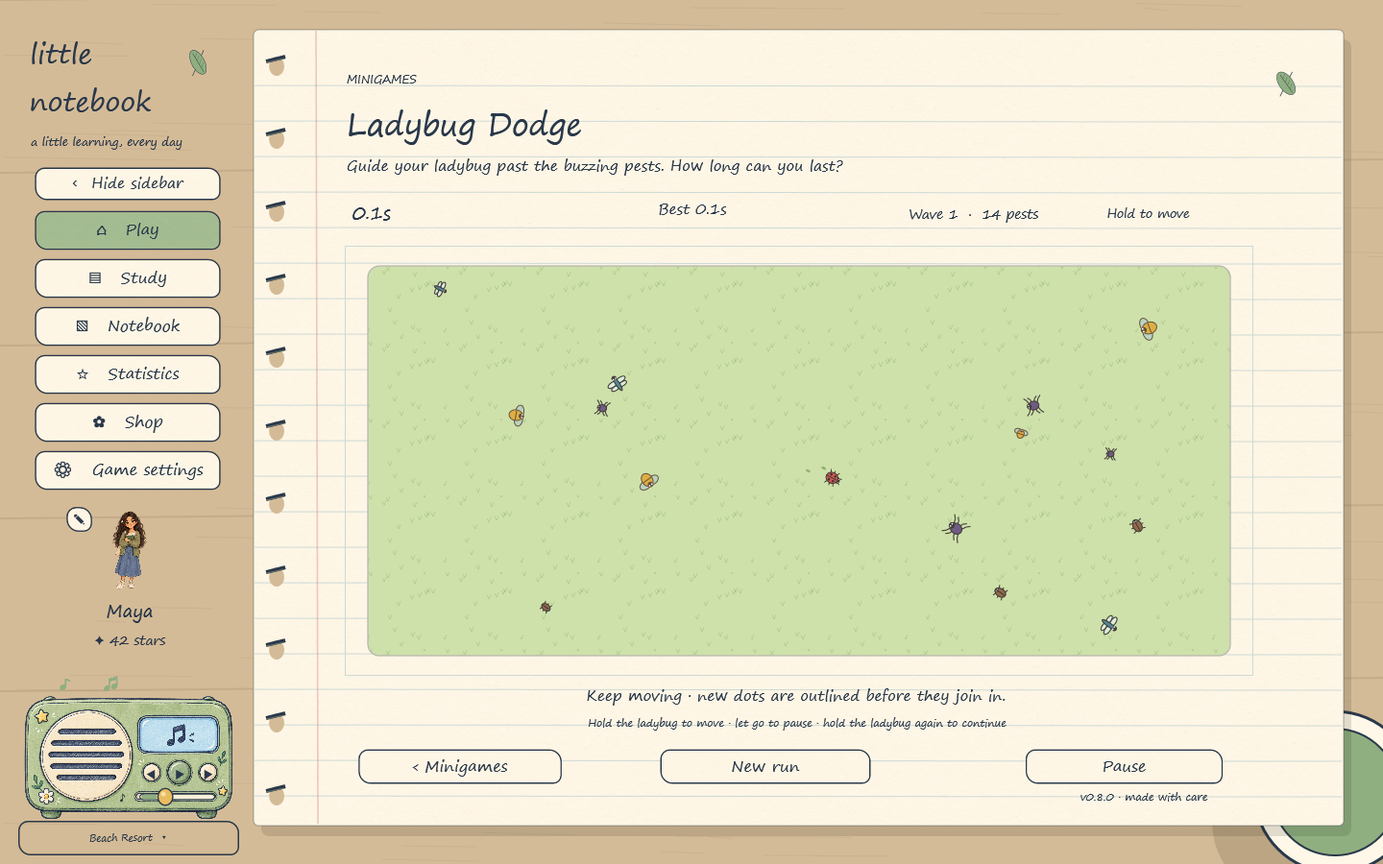
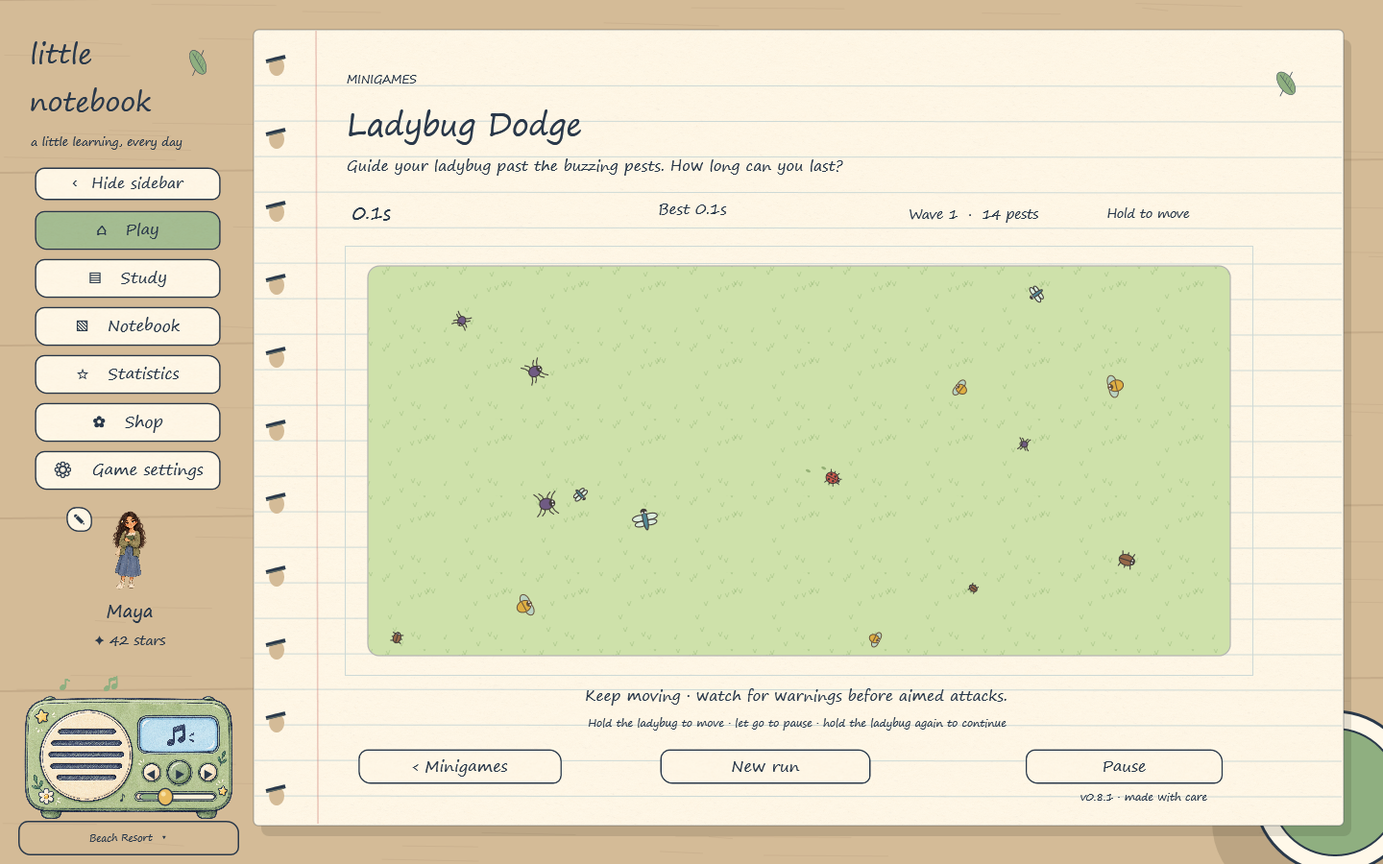
Fix Arabic paper controls and notebook footer spacing in v0.8.1

diff --git a/src/MiniGames.cs b/src/MiniGames.cs
@@ -15,7 +15,7 @@ namespace LittleNotebook {public partial class MainWindow {
   ScrollViewer miniSelectionScroll;double miniSelectionOffset;
   readonly List<Key> miniHeldKeys=new List<Key>();
   string MiniName(string key){if(ExtraPuzzle.Keys.Contains(key))return ExtraTitle(key);switch(key){case "mousedash":return T("Ladybug Dodge","مراوغة الدعسوقة");case "arrows":return T("Arrow Escape","هروب الأسهم");case "signal":return T("Signal Path","مسار الإشارة");case "pulse":return T("Pulse Lock","قفل النبض");case "stack":return T("Paper Stack","برج الورق");case "tiles":return T("Picture Patches","قصاصات الصور");case "echo":return T("Echo Keys","مفاتيح الصدى");default:return T("Ladybug Trail","درب الدعسوقة");}}
-  string MiniDescription(string key){if(ExtraPuzzle.Keys.Contains(key))return ExtraInstructions(key);switch(key){case "mousedash":return T("Guide your ladybug past the buzzing pests. How long can you last?","أمسك كرتك وراوغ النقاط المتحركة. كم يمكنك الصمود؟");case "arrows":return T("Clear winding arrows in the right order. Three hearts, piano notes and bigger boards.","أخرج الأسهم بالترتيب الصحيح. ثلاث محاولات ونغمات بيانو ولوحات أكبر.");case "signal":return T("Rotate the little pipes to carry a signal from IN to OUT.","دوّر الأنابيب لوصل الإشارة من المدخل إلى المخرج.");case "pulse":return T("Press E or click to begin, then keep tapping to open all three latches.","اضغط E أو انقر للبدء، ثم واصل الضغط لفتح الأقفال الثلاثة.");case "stack":return T("Time each landing. Trimmed edges fall away; how high can you stack?","اختر لحظة وضع كل قطعة. تسقط الحواف الزائدة؛ كم سيعلو برجك؟");case "tiles":return T("Piece together an animal photo. Hover over the eye for a peek.","رتّب البلاطات واترك الفراغ في أسفل اليمين.");case "echo":return T("Watch and listen, then play the little melody back.","شاهد واستمع، ثم أعد عزف النغمات بالترتيب.");default:return T("Guide the little ladybug through the paper maze to its leaf.","أرشد الدعسوقة الصغيرة عبر متاهة الورق إلى ورقتها.");}}
+  string MiniDescription(string key){if(ExtraPuzzle.Keys.Contains(key))return ExtraInstructions(key);switch(key){case "mousedash":return T("Guide your ladybug past the buzzing pests. How long can you last?","أرشد دعسوقتك بين الحشرات. كم يمكنك الصمود؟");case "arrows":return T("Clear winding arrows in the right order. Three hearts, piano notes and bigger boards.","أخرج الأسهم بالترتيب الصحيح. ثلاث محاولات ونغمات بيانو ولوحات أكبر.");case "signal":return T("Rotate the little pipes to carry a signal from IN to OUT.","دوّر الأنابيب لوصل الإشارة من المدخل إلى المخرج.");case "pulse":return T("Press E or click to begin, then keep tapping to open all three latches.","اضغط E أو انقر للبدء، ثم واصل الضغط لفتح الأقفال الثلاثة.");case "stack":return T("Time each landing. Trimmed edges fall away; how high can you stack?","اختر لحظة وضع كل قطعة. تسقط الحواف الزائدة؛ كم سيعلو برجك؟");case "tiles":return T("Piece together an animal photo. Hover over the eye for a peek.","رتّب البلاطات واترك الفراغ في أسفل اليمين.");case "echo":return T("Watch and listen, then play the little melody back.","شاهد واستمع، ثم أعد عزف النغمات بالترتيب.");default:return T("Guide the little ladybug through the paper maze to its leaf.","أرشد الدعسوقة الصغيرة عبر متاهة الورق إلى ورقتها.");}}
   void PlayTabs(bool games){
    var learning=Button(T("Learning","التعلّم"),()=>SwitchPlaySection(false),160,32,!games);learning.FontSize=14*Profile.Settings.TextScale;Put(body,learning,597,-7);
    var minigames=Button(T("Minigames","ألعاب مصغّرة"),()=>SwitchPlaySection(true),178,32,games);minigames.FontSize=14*Profile.Settings.TextScale;Put(body,minigames,765,-7);
@@ -91,7 +91,7 @@ namespace LittleNotebook {public partial class MainWindow {
    if(mini==null||miniStatus==null)return;if(miniClock!=null)miniClock.Text=FormatPuzzleTime(mini.Elapsed);if(mini.Extra!=null){RefreshExtraHud();return;}miniLives.Text=mini.HasLives?new string('♥',Math.Max(0,mini.Lives))+new string('♡',3-Math.Max(0,mini.Lives)):"";
    if(mini.Dash!=null){
     miniHeading.Text=DashTime(mini.Dash.Seconds);miniLives.FontSize=17*Profile.Settings.TextScale;miniLives.Foreground=B(p.Ink);miniLives.Text=T("Best ","الأفضل ")+DashTime(Math.Max(Profile.MiniGames["mousedash"].BestSeconds,mini.Dash.Seconds));miniCounter.Text=T("Wave ","الموجة ")+mini.Dash.Wave+"  ·  "+mini.Dash.Obstacles.Count+T(" pests"," نقطة");
-    miniStatus.Text=mini.Phase=="waiting"?T("Hold anywhere on the paper to begin. Avoid every flying pest.","أمسك أي موضع على الورق للبدء. تجنّب كل النقاط المتحركة."):mini.Phase=="holding"?T("Paused · hold your ball to continue.","متوقفة · أمسك كرتك للمتابعة."):mini.Phase=="failed"?T("You lasted ","صمدت ")+DashTime(mini.Dash.Seconds):T("Keep moving · new dots are outlined before they join in.","واصل الحركة · تظهر النقاط الجديدة بإطار قبل دخولها.");return;
+    miniStatus.Text=mini.Phase=="waiting"?T("Hold anywhere on the grass to begin. Avoid the pests.","أمسك أي موضع على الورق للبدء. تجنّب كل النقاط المتحركة."):mini.Phase=="holding"?T("Paused · hold your ball to continue.","متوقفة · أمسك كرتك للمتابعة."):mini.Phase=="failed"?T("You lasted ","صمدت ")+DashTime(mini.Dash.Seconds):T("Keep moving · watch for warnings before aimed attacks.","واصل الحركة · تظهر النقاط الجديدة بإطار قبل دخولها.");return;
    }
    if(mini.Stack!=null){RefreshStackHud();return;}
    miniCounter.Text=mini.Kind=="arrows"?mini.Arrows.Remaining+T(" arrows left"," أسهم متبقية"):mini.Kind=="pulse"?T("Latch ","القفل ")+Math.Min(3,mini.Latch+1)+" / 3":mini.Kind=="echo"?(mini.Phase=="showing"?Math.Max(0,Math.Min(mini.Pattern.Length,mini.ShowIndex+1)):Math.Min(mini.Pattern.Length,mini.PatternIndex))+" / "+mini.Pattern.Length:mini.Moves+T(" moves"," حركات");

diff --git a/src/RefinementChecks.cs b/src/RefinementChecks.cs
@@ -25,7 +25,7 @@ namespace LittleNotebook {public partial class MainWindow {
   phase="notebook shortcuts";var shortcutKeys=new[]{System.Windows.Input.Key.A,System.Windows.Input.Key.S,System.Windows.Input.Key.D,System.Windows.Input.Key.F,System.Windows.Input.Key.G,System.Windows.Input.Key.Z,System.Windows.Input.Key.X,System.Windows.Input.Key.C};var expectedTools=new[]{"select","select:ellipse","pencil","pen","brush","highlighter","fill","eraser"};for(int i=0;i<shortcutKeys.Length;i++){check(UseNotebookShortcut(shortcutKeys[i],System.Windows.Input.ModifierKeys.None,false)&&notebookTool==expectedTools[i],"Wrong notebook shortcut "+shortcutKeys[i]);}check(!NotebookShortcutsAvailable(new TextBox()),"Shortcuts intercept typing");ConfigureNotebookTool("pen");BeginNotebookChange();int shortcutBefore=notebookInk.Strokes.Count;AddNotebookShape("line",new Point(20,10),new Point(130,70));CommitNotebookChange();UseNotebookShortcut(System.Windows.Input.Key.Z,System.Windows.Input.ModifierKeys.Control,false);check(notebookInk.Strokes.Count==shortcutBefore&&notebookTool=="pen","Ctrl+Z selected highlighter or did not undo");UseNotebookShortcut(System.Windows.Input.Key.Z,System.Windows.Input.ModifierKeys.Control|System.Windows.Input.ModifierKeys.Shift,false);check(notebookInk.Strokes.Count>shortcutBefore,"Ctrl+Shift+Z did not redo");
   phase="paper editor";string notebook=NotebookSnapshot();var draft=new PaperDesign{PaperColor="#E6EED2"};PaperDesignView(draft);var paper=Descendants<Sketch>(overlay).First(x=>x.Kind=="paper");check(paper.P.Paper==Color.FromRgb(230,238,210)&&paper.PaperOverride==draft,"Draft paper not shown live");var spacing=Descendants<Slider>(overlay).Single();spacing.Value=57;check(draft.Spacing==57&&paper.PaperOverride.Spacing==57,"Spacing preview not live");OpenPaperDecorationEditor(draft);check(page=="notebook"&&paperEditorCancel!=null,"Editor navigated out of page");var ink=Descendants<SmoothInkCanvas>(overlay).Single();ink.Strokes.Add(new Stroke(new System.Windows.Input.StylusPointCollection(new[]{new System.Windows.Input.StylusPoint(40,40),new System.Windows.Input.StylusPoint(140,90)})));ClickTestButton("Fill");ink.PointerStarting(new Point(400,300));check(notebook==NotebookSnapshot(),"Decoration editor changed notebook");ClickTestButton("Use decorations");check(!string.IsNullOrEmpty(draft.Decorations.Ink)&&draft.Decorations.Images.Count==1&&paperEditorCancel==null,"Editor did not return draft");check(Profile.Settings.Paper!=draft,"Editor saved before paper confirmation");OpenPaperDecorationEditor(draft);ink=Descendants<SmoothInkCanvas>(overlay).Single();ink.Strokes.Clear();CloseModal();check(!string.IsNullOrEmpty(draft.Decorations.Ink),"Editor cancel overwrote draft");CloseModal();
   phase="all themes and languages";foreach(string theme in new[]{"matcha","sky","rose","lavender","night"})foreach(string lang in new[]{"en","ar"}){
-   Profile.Settings.Theme=theme;Profile.Settings.Language=lang;Profile.Settings.Paper=PaperDesign.ForTheme(theme);page="home";selectedTopic="mixed";Build();Capture("refine-learning-"+theme+"-"+lang);check(Descendants<TextBlock>(body).Any(x=>x.Text==T("Difficulty","المستوى")),"Missing difficulty heading");SettingsView();Capture("refine-settings-"+theme+"-"+lang);CloseModal();PaperDesignView();Capture("refine-paper-"+theme+"-"+lang);CloseModal();page="notebook";Build();FitNotebook();RefreshNotebookGuide();Capture("refine-notebook-"+theme+"-"+lang);page="minigames";Build();Capture("refine-menu-"+theme+"-"+lang);StartMiniGame("mousedash");mini.HoldDash(450,204);mini.MoveDash(500,215);mini.Dash.Tick(.2);RefreshMiniHud();miniSurface.InvalidateVisual();Capture("refine-dodge-"+theme+"-"+lang);BackToMiniGames();
+   Profile.Settings.Theme=theme;Profile.Settings.Language=lang;Profile.Settings.Paper=PaperDesign.ForTheme(theme);page="home";selectedTopic="mixed";Build();Capture("refine-learning-"+theme+"-"+lang);check(Descendants<TextBlock>(body).Any(x=>x.Text==T("Difficulty","المستوى")),"Missing difficulty heading");SettingsView();Capture("refine-settings-"+theme+"-"+lang);CloseModal();PaperDesignView();check(Descendants<TextBlock>(overlay).First().Width==540,"Paper title overlaps reset");Capture("refine-paper-"+theme+"-"+lang);CloseModal();page="notebook";Build();FitNotebook();RefreshNotebookGuide();check(notebookStatus.FlowDirection==FlowDirection.LeftToRight&&notebookStatus.Width==340,"Notebook status overlaps hint");Capture("refine-notebook-"+theme+"-"+lang);page="minigames";Build();Capture("refine-menu-"+theme+"-"+lang);StartMiniGame("mousedash");mini.HoldDash(450,204);mini.MoveDash(500,215);mini.Dash.Tick(.2);RefreshMiniHud();miniSurface.InvalidateVisual();Capture("refine-dodge-"+theme+"-"+lang);BackToMiniGames();
   }
   Profile.Settings.Language="en";Profile.Settings.Theme="matcha";Profile.Settings.Paper=PaperDesign.ForTheme("matcha");page="home";Build();var decorated=new PaperDesign();PaperDesignView(decorated);OpenPaperDecorationEditor(decorated);Capture("refine-decoration-editor");CloseModal();CloseModal();foreach(int level in new[]{4,10,35}){Profile.MiniGames["pour"].Level=level;StartMiniGame("pour");Capture("refine-pour-level-"+level);mini.Phase="complete";mini.Wait=100;miniSurface.InvalidateVisual();Capture("refine-pour-cleared-"+level);BackToMiniGames();}
   CaptureDocumentation();check(Diagnostics.ErrorCount==0,"Native UI errors logged");File.WriteAllText(report,"PASS: "+checks+" targeted checks. 500 stationary dodge positions all defeated within "+longest.ToString("0.0")+"s; footprints, variety, proven crate deadlocks and automatic restart, pour/deselection/ramp, learning selection, tracing preservation/comparison, zoom/fit, pen modes, live paper preview, isolated layered editor save/cancel, and native renders in all five themes and both languages. No desktop interaction.");

diff --git a/tools/test_live_update.py b/tools/test_live_update.py
@@ -1,4 +1,4 @@
-"""Exercise the real published GitHub client/updater without desktop automation."""
+"""Exercise the real published GitHub client/updater without desktop automation."""
 from pathlib import Path
 import hashlib, json, shutil, subprocess, time, urllib.request, zipfile
 root=Path(__file__).resolve().parent.parent
@@ -21,6 +21,7 @@ try:
  run([root/f"releases/LittleNotebook-Setup-{release['version']}.exe",'/VERYSILENT','/SUPPRESSMSGBOXES','/NORESTART','/SP-','/TESTINSTALL=1',f'/DIR={app}',f'/LOG={area}/install.log'])
  data=app/'user-data-test'
  profile=json.loads((root/'test-output/revision-profile.json').read_text(encoding='utf-8-sig'))
+ for notebook in profile['Notebook']:notebook.setdefault('TracePhoto','')
  profile.update(Name='Update preservation fixture',Coins=777,StackBest=23)
  profile['MiniGames']={key:dict(Level=17 if key=='arrows' else 4,Seed=81623+index,BestCompleted=16 if key=='arrows' else 3,Completed=21,Failures=2,BestSeconds=62.8 if key=='mousedash' else 0,LastSeconds=48.2 if key=='mousedash' else 0,LastMoves=21,BestMoves=19,Results=[dict(Level=3,Moves=21,Seconds=52.1,Date='2026-10-23T10:00:00Z')]) for index,key in enumerate(['arrows','tiles','maze','mousedash','lights','queens','crates','pegs','untangle','pour','code','domino','glide','flood','signal','pulse','lanterns','echo'])}
  profile['Settings'].update(Language='en',Music=False,Sound=False,AutoReadQuestions=False,Volume=0,CustomMusic=['data/music/preserve.wav'],MusicTitles={'data/music/preserve.wav':'My preserved music name'})
@@ -30,9 +31,9 @@ try:
  # Exercise the actual published previous client and piano files, rather than
  # merely changing a version constant in the new executable.
  def download(url):
-  assert url.startswith('https://github.com/farhanr3001/little-notebook-game/releases/download/v0.7.0/')
+  assert url.startswith('https://github.com/farhanr3001/little-notebook-game/releases/download/v0.8.0/')
   with urllib.request.urlopen(urllib.request.Request(url,headers={'User-Agent':'LittleNotebook-update-verification'}),timeout=90) as response:return response.read()
- old=json.loads(download('https://github.com/farhanr3001/little-notebook-game/releases/download/v0.7.0/update-manifest.json'))
+ old=json.loads(download('https://github.com/farhanr3001/little-notebook-game/releases/download/v0.8.0/update-manifest.json'))
  current=json.loads((app/'payload-manifest.json').read_text(encoding='utf-8'));old_paths={f['path'] for f in old['files']}
  for record in current['files']:
   if record['path'] not in old_paths:
@@ -69,7 +70,7 @@ try:
  result=(data/'live-client-test.txt').read_text(encoding='utf-8-sig');assert 'FAIL:' not in result and 'manual Check for updates reports up to date' in result
  run([app/'unins000.exe','/VERYSILENT','/SUPPRESSMSGBOXES','/NORESTART',f'/LOG={area}/uninstall.log'])
  wait_for(lambda:not app.exists(),15)
- report.write_text('PASS: actual published 0.7.0 client accepted the GitHub startup update offer; only the application component downloaded; production updater replacing the older executable and removing obsolete files; preserved character/stars/purchases/attempts/notebook/imported music and minigame checkpoints, Paper Stack high score and Mouse Dash times; unchanged asset timestamp; no popup on current version; manual up-to-date result; complete uninstall of the updated installation. No desktop automation.\n',encoding='utf-8')
+ report.write_text('PASS: actual published 0.8.0 client accepted the GitHub startup update offer; only the application component downloaded; production updater replacing the older executable and removing obsolete files; preserved character/stars/purchases/attempts/notebook/imported music and minigame checkpoints, Paper Stack high score and Mouse Dash times; unchanged asset timestamp; no popup on current version; manual up-to-date result; complete uninstall of the updated installation. No desktop automation.\n',encoding='utf-8')
  print(report.read_text())
 except Exception as error:
  report.write_text('FAIL: '+repr(error),encoding='utf-8');raise

diff --git a/src/MainWindow.cs b/src/MainWindow.cs
@@ -184,7 +184,7 @@ namespace LittleNotebook {
    var allTopics=Button("",()=>ToggleTopic("mixed"),367,62,SelectedTopics.Length==4);var allCanvas=new Canvas{Width=335,Height=51};for(int k=0;k<4;k++)Put(allCanvas,new Sketch(new[]{"book","math","brain","sun"}[k],SelectedTopics.Length==4?p.OnAccent():p,25,25),8+k*29,12);Label(allCanvas,T("All topics","جميع المواضيع"),136,9,21,190);allTopics.Content=allCanvas;AutomationProperties.SetName(allTopics,Topic("mixed"));Put(body,allTopics,298,125);
    var icons=new[]{"book","math","brain","sun"};for(int i=0;i<4;i++){string topic=PlayTopics[i];bool selected=SelectedTopics.Contains(topic);var button=Button("",()=>ToggleTopic(topic),367,62,selected);var c=new Canvas{Width=333,Height=51};Put(c,new Sketch(icons[i],selected?p.OnAccent():p,39,39),Ar?282:6,4);Label(c,Topic(topic),Ar?6:62,9,21,265).Foreground=B(selected?p.AccentInk:p.Ink);button.Content=c;AutomationProperties.SetName(button,Topic(topic));Put(body,button,98+(Ar?1-i%2:i%2)*394,202+(i/2)*75);}
    Label(body,T("Question types","أنواع الأسئلة"),99,352,15,760);
-   var info=Text("ⓘ",17,26,true);info.ToolTip=T("Only your selected question types are included in the game. Choose All to include every type in a topic.","تظهر أثناء اللعب أنواع الأسئلة المحددة فقط. اختر الكل لتضمين كل أنواع الموضوع.");ToolTipService.SetInitialShowDelay(info,150);Put(body,info,Ar?691:239,350);
+   var info=Text("ⓘ",17,26,true);info.ToolTip=T("Only your selected question types are included in the game. Choose All to include every type in a topic.","تظهر أثناء اللعب أنواع الأسئلة المحددة فقط. اختر الكل لتضمين كل أنواع الموضوع.");ToolTipService.SetInitialShowDelay(info,150);Put(body,info,Ar?749:218,350);
    var groups=new StackPanel{Width=750};foreach(string item in SelectedTopics){string topic=item;var topicButtons=new Dictionary<string,Button>();questionTypeButtons[topic]=topicButtons;var row=new StackPanel{Width=742,Margin=new Thickness(0,0,0,8)};row.Children.Add(Text(Topic(topic),15,730));var types=new WrapPanel{Width=736,FlowDirection=Ar?FlowDirection.RightToLeft:FlowDirection.LeftToRight};foreach(string key in QuestionCatalog.Categories(bank,topic,Profile.Settings.Difficulty)){string category=key,label=CategoryName(key);var button=Button(label,()=>ToggleTopicCategory(topic,category),Math.Max(62,Math.Min(153,label.Length*8+24)),32,TypeSelected(topic,key));button.Margin=new Thickness(0,0,5,5);button.FontSize=14*Profile.Settings.TextScale;StyleQuestionTypeButton(button,TypeSelected(topic,key));topicButtons[key]=button;types.Children.Add(button);}row.Children.Add(types);groups.Children.Add(row);}
    double height=SelectedTopics.Length==1?100:125;var scroll=new ScrollViewer{Width=773,Height=height,Content=groups,VerticalScrollBarVisibility=ScrollBarVisibility.Auto,HorizontalScrollBarVisibility=ScrollBarVisibility.Disabled};StylePaperScroll(scroll);Put(body,scroll,99,381);questionTypeScroll=scroll;
    // Restore before the rebuilt screen can render, rather than jumping after Loaded.

diff --git a/src/PaperDesign.cs b/src/PaperDesign.cs
@@ -23,7 +23,7 @@ namespace LittleNotebook {
   void PaperDesignView(PaperDesign draft){
    if(draft.Holes==null)draft.Holes=Enumerable.Repeat("holes",11).ToList();while(draft.Holes.Count<11)draft.Holes.Add("holes");
    Modal(T("Background paper","تصميم ورقة الخلفية"),c=>{
-    RefreshPaperPreview(c,draft);var reset=Button("↻",()=>PaperDesignView(PaperDesign.ForTheme(Profile.Settings.Theme)),40,39);reset.ToolTip=T("Reset to this theme’s default paper","استعادة ورقة المظهر الافتراضية");Put(c,reset,663,25);
+    RefreshPaperPreview(c,draft);c.Children.OfType<TextBlock>().First().Width=540;var reset=Button("↻",()=>PaperDesignView(PaperDesign.ForTheme(Profile.Settings.Theme)),40,39);reset.ToolTip=T("Reset to this theme’s default paper","استعادة ورقة المظهر الافتراضية");Put(c,reset,663,25);
     Label(c,T("Choose your paper, rules and each binding decoration.","اختر الورقة والخطوط والزينة عند كل ثقب."),96,102,17,600);
     string[] labels={T("Paper colour","لون الورقة"),T("Line colour","لون الخطوط"),T("Margin colour","لون الهامش")};string[] values={draft.PaperColor,draft.LineColor,draft.MarginColor};
     for(int i=0;i<3;i++){int index=i;Label(c,labels[i],99+i*201,151,16,194);var color=Button("",()=>NotebookColorWheel((Color)ColorConverter.ConvertFromString(values[index]),selected=>{if(index==0)draft.PaperColor=selected.ToString();if(index==1)draft.LineColor=selected.ToString();if(index==2)draft.MarginColor=selected.ToString();PaperDesignView(draft);}),184,43);color.Background=(Brush)new BrushConverter().ConvertFromString(values[i]);Put(c,color,98+i*201,185);}

diff --git a/src/MiniSurface.cs b/src/MiniSurface.cs
@@ -125,9 +125,9 @@ namespace LittleNotebook {
    DrawLadybug(dc,ball,MouseDashBoard.PlayerRadius,board.Facing*180/Math.PI+90,palette);
    if(Session.Phase=="holding"||Session.Phase=="waiting")dc.DrawEllipse(null,Pen(palette.Gold,1.8),ball,16,16);
    if(board.Hit)dc.DrawEllipse(null,Pen(Color.FromRgb(188,91,83),2),ball,21,21);
-   if(!board.Started){Label(dc,ar?"أمسك أي موضع للبدء":"Hold anywhere to begin",new Point(Width/2,Height/2-27),24);Label(dc,ar?"حرّك الكرة وتجنّب النقاط · اتركها للإيقاف":"Guide your ladybug past the pests · let go to pause",new Point(Width/2,Height/2+9),14);}
+   if(!board.Started){Label(dc,ar?"أمسك أي موضع للبدء":"Hold anywhere to begin",new Point(Width/2,Height/2-27),24);Label(dc,ar?"حرّك الدعسوقة وتجنّب الحشرات · اتركها للإيقاف":"Guide your ladybug past the pests · let go to pause",new Point(Width/2,Height/2+9),14);}
    else if(Session.Phase=="holding"){
-    dc.DrawRoundedRectangle(Brush(palette.Paper),Pen(palette.Line,1),new Rect(Width/2-145,13,290,36),9,9);Label(dc,ar?"أمسك الكرة للمتابعة":"Hold your ladybug to continue",new Point(Width/2,31),14);
+    dc.DrawRoundedRectangle(Brush(palette.Paper),Pen(palette.Line,1),new Rect(Width/2-145,13,290,36),9,9);Label(dc,ar?"أمسك الدعسوقة للمتابعة":"Hold your ladybug to continue",new Point(Width/2,31),14);
    }
   }
   static double Distance(Point point,Point a,Point b){Vector line=b-a;double t=line.LengthSquared==0?0:Math.Max(0,Math.Min(1,Vector.Multiply(point-a,line)/line.LengthSquared));return (point-(a+line*t)).Length;}

diff --git a/src/NotebookSurface.cs b/src/NotebookSurface.cs
@@ -67,8 +67,8 @@ namespace LittleNotebook {
 
    Put(body,new Border{Width=962,Height=369,Child=sheet,BorderBrush=B(p.Line),BorderThickness=new Thickness(1)},8,267);
    ResizeNotebookSurface();RefreshNotebookGuide();ConfigureNotebookTool(notebookTool);
-   notebookStatus=Label(body,T("Saved locally","محفوظ محلياً"),13,646,12,490);
-   Label(body,T("Drag to place · Shift+Enter: new text line","اسحب للوضع · Shift+Enter: سطر جديد"),505,646,12,440).TextAlignment=TextAlignment.Right;
+   notebookStatus=Label(body,T("Saved locally","محفوظ محلياً"),13,646,12,340);notebookStatus.FlowDirection=FlowDirection.LeftToRight;notebookStatus.TextAlignment=TextAlignment.Left;
+   var notebookHint=Label(body,T("Drag to place · Shift+Enter: new text line","اسحب للوضع · Shift+Enter: سطر جديد"),505,646,12,440);notebookHint.FlowDirection=FlowDirection.LeftToRight;notebookHint.TextAlignment=TextAlignment.Right;
    if(paperDesignDraft!=null){Btn(body,T("Cancel paper changes","إلغاء تغييرات الورقة"),35,695,()=>FinishPaperEditor(false),338,45);Btn(body,T("Save background paper","حفظ ورقة الخلفية"),519,695,()=>FinishPaperEditor(true),420,45,true);}else{
    var previous=Button(T("‹ Previous","‹ السابقة"),()=>TurnNotebookPage(-1),162,45);previous.IsEnabled=Profile.NotebookIndex>0;Put(body,previous,9,695);
    Label(body,T("Page ","صفحة ")+(Profile.NotebookIndex+1)+" / "+Profile.Notebook.Count,192,704,18,195).TextAlignment=TextAlignment.Center;

diff --git a/src/AppInfo.cs b/src/AppInfo.cs
@@ -4,10 +4,10 @@ using System.Linq;
 using System.Reflection;
 using System.Runtime.InteropServices;
 
-[assembly:AssemblyVersion("0.8.0.0")]
-[assembly:AssemblyFileVersion("0.8.0.0")]
+[assembly:AssemblyVersion("0.8.1.0")]
+[assembly:AssemblyFileVersion("0.8.1.0")]
 namespace LittleNotebook {
- public static class AppInfo {public const string Version="0.8.0",ProductId="5C35749C-14DE-49BC-AED7-E462359A73A4",Repository="farhanr3001/little-notebook-game";public static void SetIdentity(bool updater=false){try{SetCurrentProcessExplicitAppUserModelID(updater?"Farhan.LittleNotebook.Update":"Farhan.LittleNotebook");}catch{}}[DllImport("shell32.dll")]static extern int SetCurrentProcessExplicitAppUserModelID([MarshalAs(UnmanagedType.LPWStr)]string appId);}
+ public static class AppInfo {public const string Version="0.8.1",ProductId="5C35749C-14DE-49BC-AED7-E462359A73A4",Repository="farhanr3001/little-notebook-game";public static void SetIdentity(bool updater=false){try{SetCurrentProcessExplicitAppUserModelID(updater?"Farhan.LittleNotebook.Update":"Farhan.LittleNotebook");}catch{}}[DllImport("shell32.dll")]static extern int SetCurrentProcessExplicitAppUserModelID([MarshalAs(UnmanagedType.LPWStr)]string appId);}
  public static class AppPaths {
   public static string DataDirectory{get;private set;}
   public static string InstallDirectory{get{return AppDomain.CurrentDomain.BaseDirectory.TrimEnd(Path.DirectorySeparatorChar);}}
